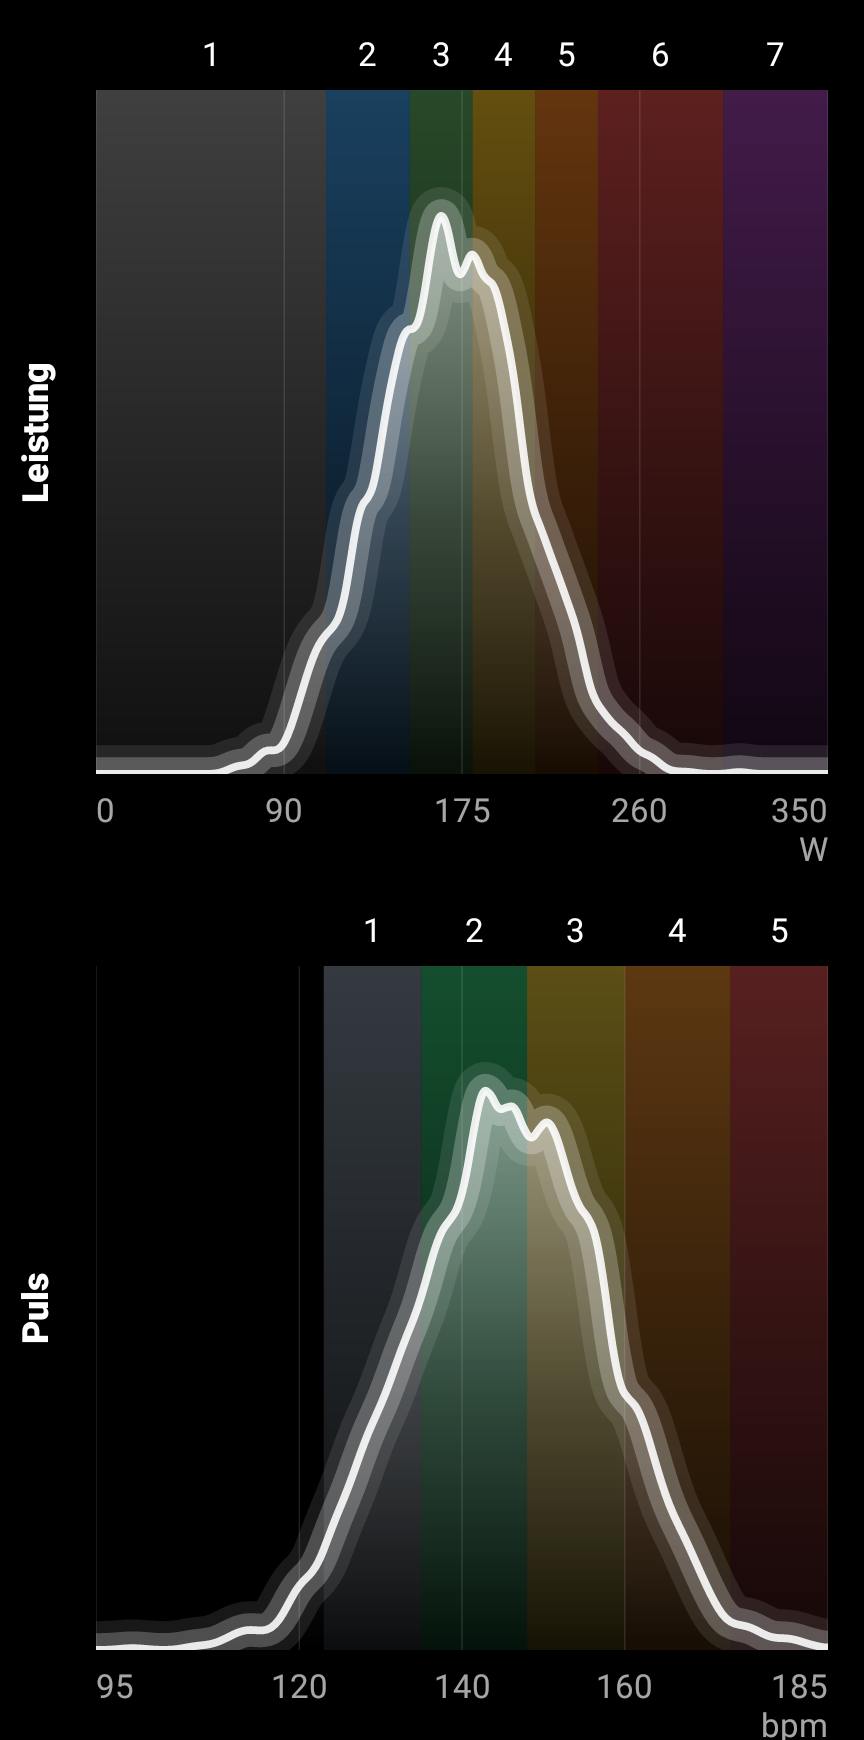
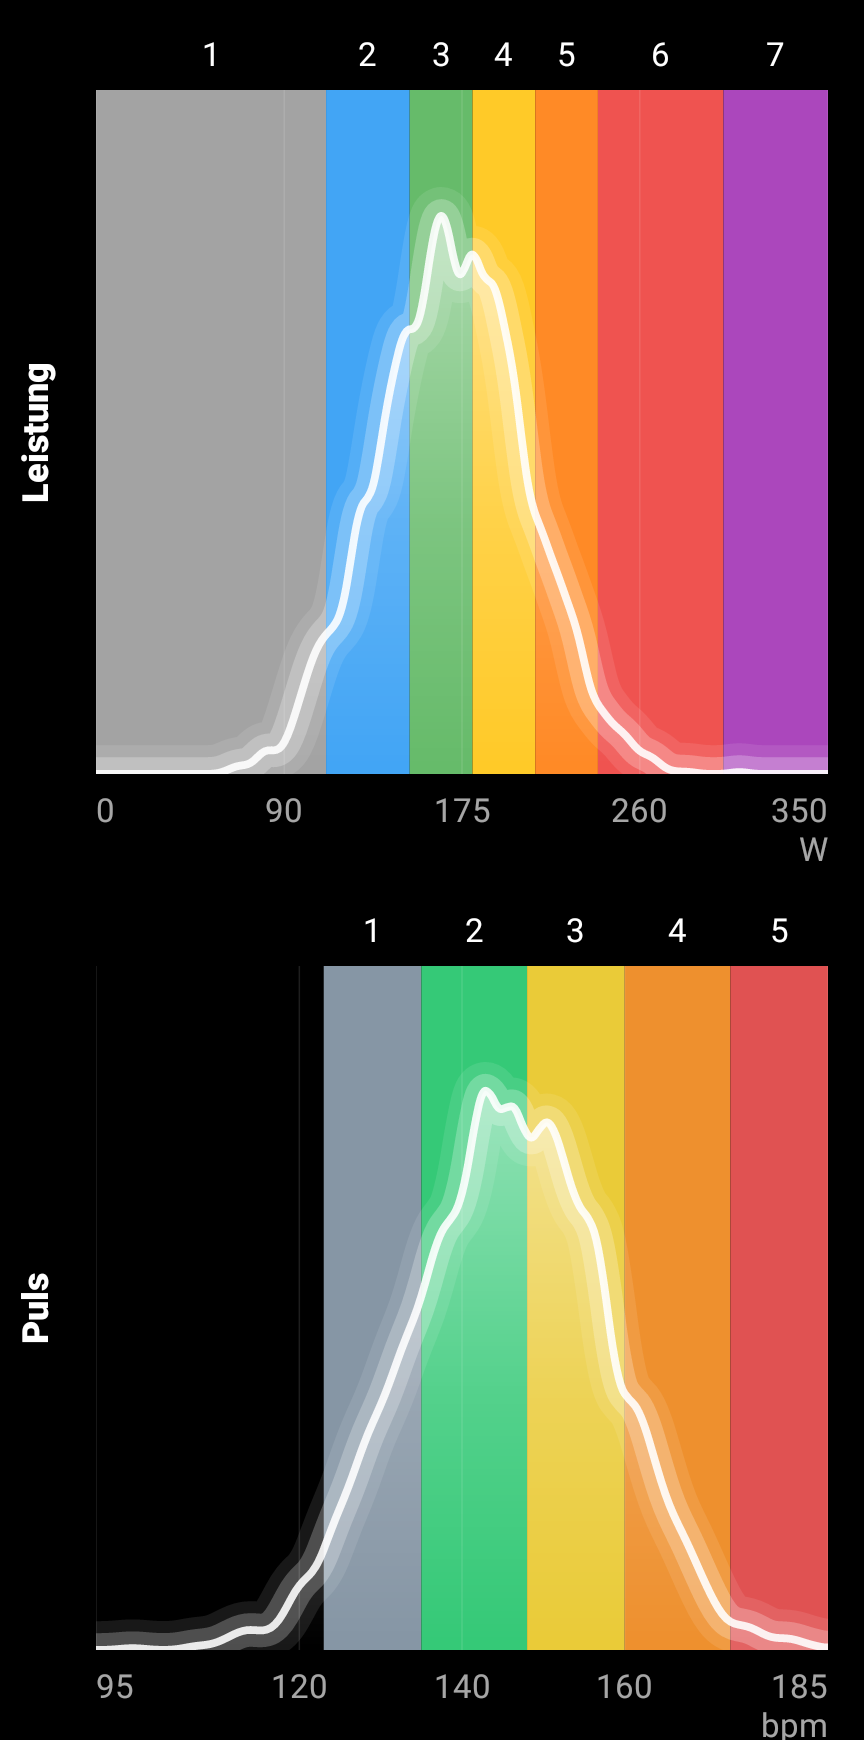
Render distribution zones opaque without gradients

diff --git a/app/src/main/java/de/bcycle/app/RouteDistributionView.kt b/app/src/main/java/de/bcycle/app/RouteDistributionView.kt
@@ -25,7 +25,6 @@ internal class RouteDistributionView(context: Context, themes: ThemeManager, val
     }.filter { it > distribution.minimum && it < distribution.maximum } + distribution.maximum).distinct()
     private val labels = marks.map { context.getString(R.string.analysis_integer_format, it) }
     private val zoneLabels = distribution.bands.map { context.getString(R.string.analysis_distribution_zone_number, it.zone) }
-    private val zoneShaders = mutableListOf<Shader>()
     init {
         tag = "analysis_distribution_${distribution.chart.name}"
         importantForAccessibility = IMPORTANT_FOR_ACCESSIBILITY_YES
@@ -42,12 +41,8 @@ internal class RouteDistributionView(context: Context, themes: ThemeManager, val
     private fun x(value: Double) = plot.left + ((value - distribution.minimum) / (distribution.maximum - distribution.minimum)).toFloat() * plot.width()
     override fun onSizeChanged(w: Int, h: Int, oldw: Int, oldh: Int) {
         plot.set((BicycleDesign.analysisSideLabelWidth + BicycleDesign.verticalPadding) * density, 30 * density, w - 12 * density, h - 30 * density)
-        line.reset(); area.reset(); zoneShaders.clear()
+        line.reset(); area.reset()
         if (plot.width() <= 0 || plot.height() <= 0 || smooth.isEmpty()) return
-        distribution.bands.forEach { band ->
-            val rgb = band.color and 0x00ffffff
-            zoneShaders += LinearGradient(0f, plot.top, 0f, plot.bottom, intArrayOf(rgb or (100 shl 24), rgb or (25 shl 24)), null, Shader.TileMode.CLAMP)
-        }
         val peak = (smooth.maxOrNull() ?: 0.0).coerceAtLeast(1.0)
         val points = smooth.mapIndexed { i, value -> PointF(plot.left + plot.width() * (i + .5f) / smooth.size, plot.bottom - (value / peak).toFloat() * plot.height() * .82f) }
         line.moveTo(plot.left, points.first().y)
@@ -66,9 +61,9 @@ internal class RouteDistributionView(context: Context, themes: ThemeManager, val
     override fun onDraw(canvas: Canvas) {
         if (plot.width() <= 0 || plot.height() <= 0) return
         val saved = canvas.save(); canvas.clipRect(plot)
-        paint.style = Paint.Style.FILL; paint.alpha = 255
-        distribution.bands.forEachIndexed { i, band ->
-            paint.shader = zoneShaders[i]
+        paint.style = Paint.Style.FILL; paint.shader = null
+        distribution.bands.forEach { band ->
+            paint.color = band.color; paint.alpha = 255
             canvas.drawRect(x(band.lower), plot.top, x(band.upper), plot.bottom, paint)
         }
         paint.shader = null; paint.color = foreground; paint.alpha = 30; paint.strokeWidth = density * .5f

diff --git a/app/src/test/java/de/bcycle/app/RouteDistributionViewTest.kt b/app/src/test/java/de/bcycle/app/RouteDistributionViewTest.kt
@@ -44,7 +44,16 @@ class RouteDistributionViewTest {
                     assertTrue(chart.plotBounds().width() > chart.width * .75f)
                     assertTrue(chart.contentDescription.toString().contains(context.getString(R.string.analysis_watts)) || chart.contentDescription.toString().contains(context.getString(R.string.analysis_bpm)))
                     val bitmap = Bitmap.createBitmap(chart.width, chart.height, Bitmap.Config.ARGB_8888)
-                    chart.draw(Canvas(bitmap)); bitmap.recycle()
+                    chart.draw(Canvas(bitmap))
+                    val plot = chart.plotBounds()
+                    for (band in chart.distribution.bands) {
+                        val value = (band.lower + band.upper) / 2
+                        val x = (plot.left + ((value - chart.distribution.minimum) / (chart.distribution.maximum - chart.distribution.minimum)) * plot.width()).toInt()
+                        // Above the curve/fill/glow: both heights retain the exact opaque zone color.
+                        assertEquals(band.color, bitmap.getPixel(x, plot.top.toInt() + 5))
+                        assertEquals(band.color, bitmap.getPixel(x, plot.top.toInt() + 15))
+                    }
+                    bitmap.recycle()
                 }
                 if (theme.id == "preset:black-ops" && width == 960) {
                     val gap = BicycleDesign.dp(context, BicycleDesign.smallGap)

diff --git a/docs/track-value-distributions.md b/docs/track-value-distributions.md
@@ -12,7 +12,7 @@ Histogramme sind unabhängig von der Fahrtdauer begrenzt (Watt-/BPM-Buckets); im
 
 ## Darstellung
 
-Bekannte sieben Coggan- und fünf Karvonen-Zonen aus dem aktuellen Fahrerprofil, mit den vorhandenen semantischen Zonenfarben als dezente Hintergrundflächen. Am oberen Rand ausschließlich die Zahlen 1 … 7 beziehungsweise 1 … 5. Keine zusätzlichen Prozentangaben oder AVG-Marker. Seitliche Bezeichnung und X-Achsentexte verwenden die vorhandene Details-Typografie und Theme-Farben.
+Bekannte sieben Coggan- und fünf Karvonen-Zonen aus dem aktuellen Fahrerprofil, mit den vorhandenen semantischen Zonenfarben als vollständig deckende, einfarbige Hintergrundflächen. Keine Transparenz und kein Farbverlauf in den Zonenflächen; der transparente Verlauf bleibt ausschließlich in der weißen Kurvenfüllung. Am oberen Rand ausschließlich die Zahlen 1 … 7 beziehungsweise 1 … 5. Keine zusätzlichen Prozentangaben oder AVG-Marker. Seitliche Bezeichnung und X-Achsentexte verwenden die vorhandene Details-Typografie und Theme-Farben.
 
 Die X-Achse deckt alle beobachteten Werte einschließlich des letzten Samples ab. Zusätzlich sind sämtliche Profilzonen sichtbar: Leistung ab 0 W mindestens bis 175 % FTP (Platz für offene Zone 7), Puls mindestens vom unteren Profilbereich bis zum Profil-Maximalpuls, bei Bedarf nach unten/oben erweitert. Achsengrenzen auf 5 Einheiten gerundet. Puls außerhalb der Profilzonen bleibt sichtbar, erhält aber keine falsche Zonenfarbe.
 
